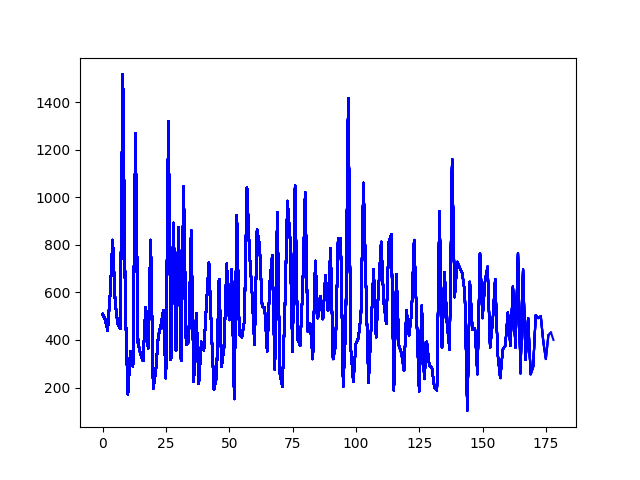
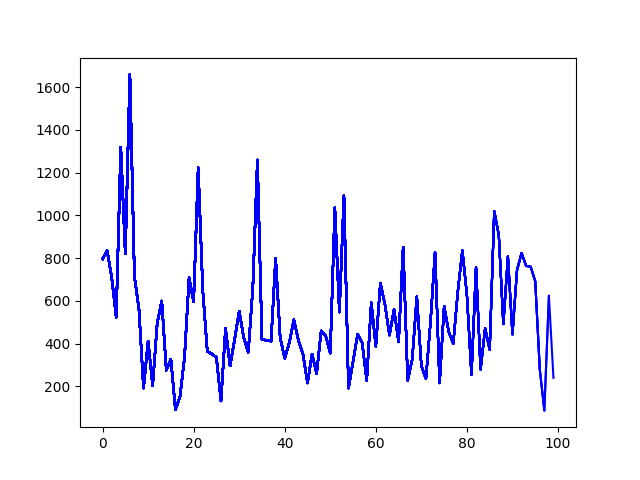
Fixed rewards for invalid move

diff --git a/play.py b/play.py
@@ -9,7 +9,7 @@ import gym
 import numpy as np
 import pylab
 
-EPISODES = 250
+EPISODES = 100
 
 def getPeaks(arr):
     peaks = []
@@ -64,9 +64,6 @@ if __name__ == "__main__":
 
             prevMaxNumber = 0
 
-            if isValid:
-                gameEnv.AddNewNumber()
-
             # Lenth of game award
             reward = 10.0
 
@@ -83,6 +80,11 @@ if __name__ == "__main__":
             if gameEnv.GetMaxNumber() > prevMaxNumber:
                 reward += 10.0
                 prevMaxNumber = gameEnv.GetMaxNumber()
+
+            if isValid:
+                gameEnv.AddNewNumber()
+            else:
+                reward = -50.0
 
             done = gameEnv.CheckGameOver()
             if done:
@@ -102,5 +104,9 @@ if __name__ == "__main__":
                 pylab.plot(episodes, scores, 'b')
                 pylab.savefig("2048_ddqn.png")
 
-                print("episode: {}/{}, score: {}, MaxNumber: {}, e: {:.2}".format(e, EPISODES, gameEnv.GetScore(), 2**gameEnv.GetMaxNumber(), agent.epsilon))
+                print("episode: {}/{}, score: {}, MaxNumber: {}, memory length: {}, e: {:.2}".format(e, EPISODES, gameEnv.GetScore(), 2**gameEnv.GetMaxNumber(), len(agent.memory), agent.epsilon))
                 break
+        
+        # save the model
+        if e % 50 == 0:
+            agent.model.save_weights("2048.h5")

diff --git a/ddqn.py b/ddqn.py
@@ -41,7 +41,7 @@ class DoubleDQNAgent:
         self.update_target_model()
 
         if self.load_model:
-            self.model.load_weights("./save_model/cartpole_ddqn.h5")
+            self.model.load_weights("2048.h5")
 
     # approximate Q function using Neural Network
     # state is input and Q Value of each action is output of network
